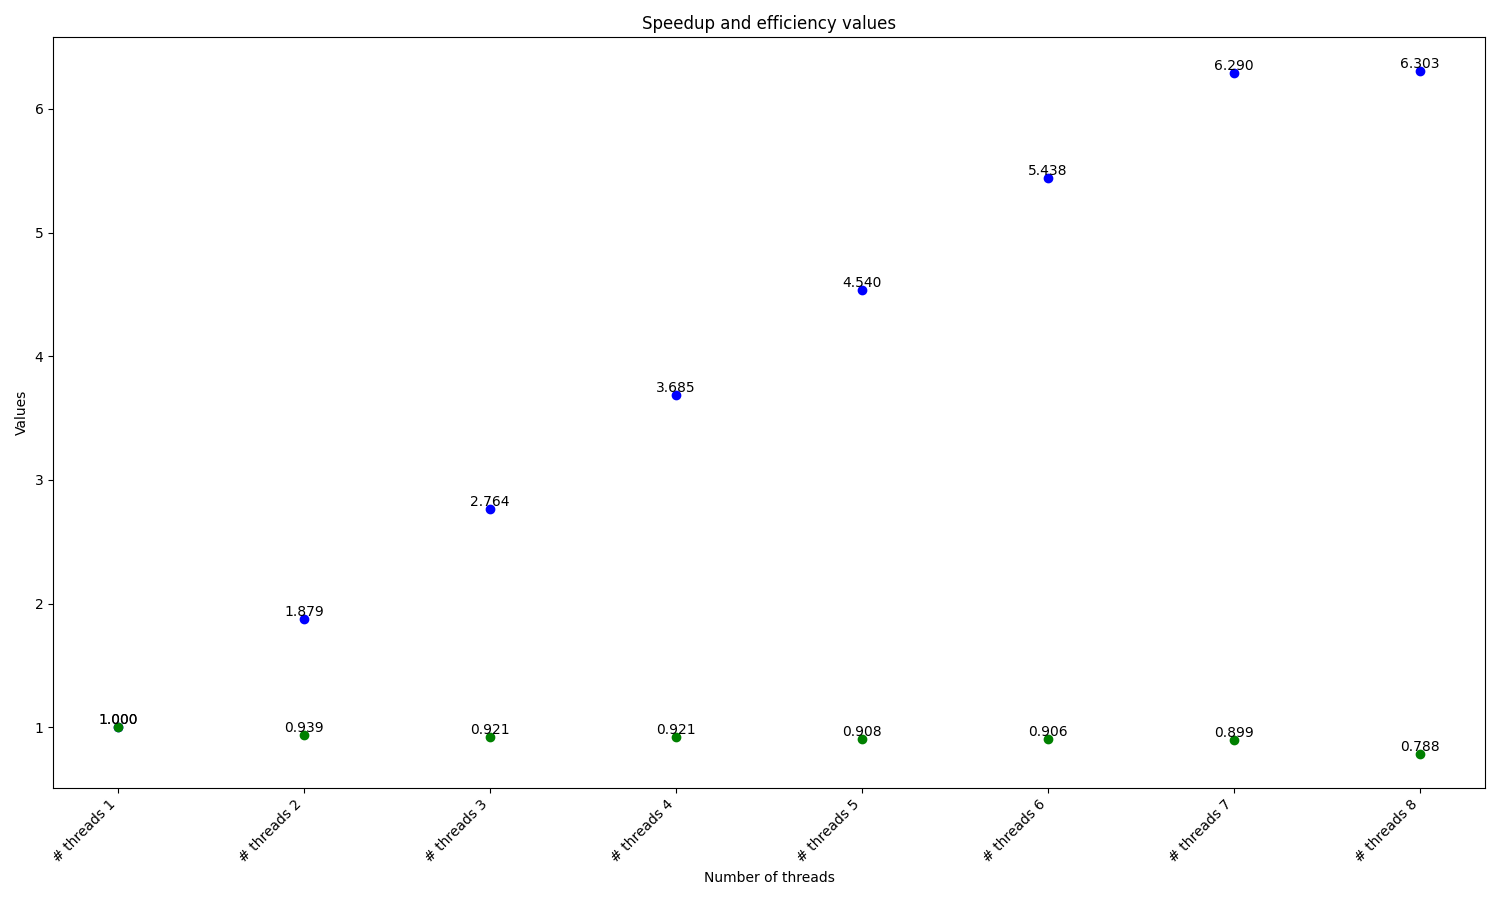
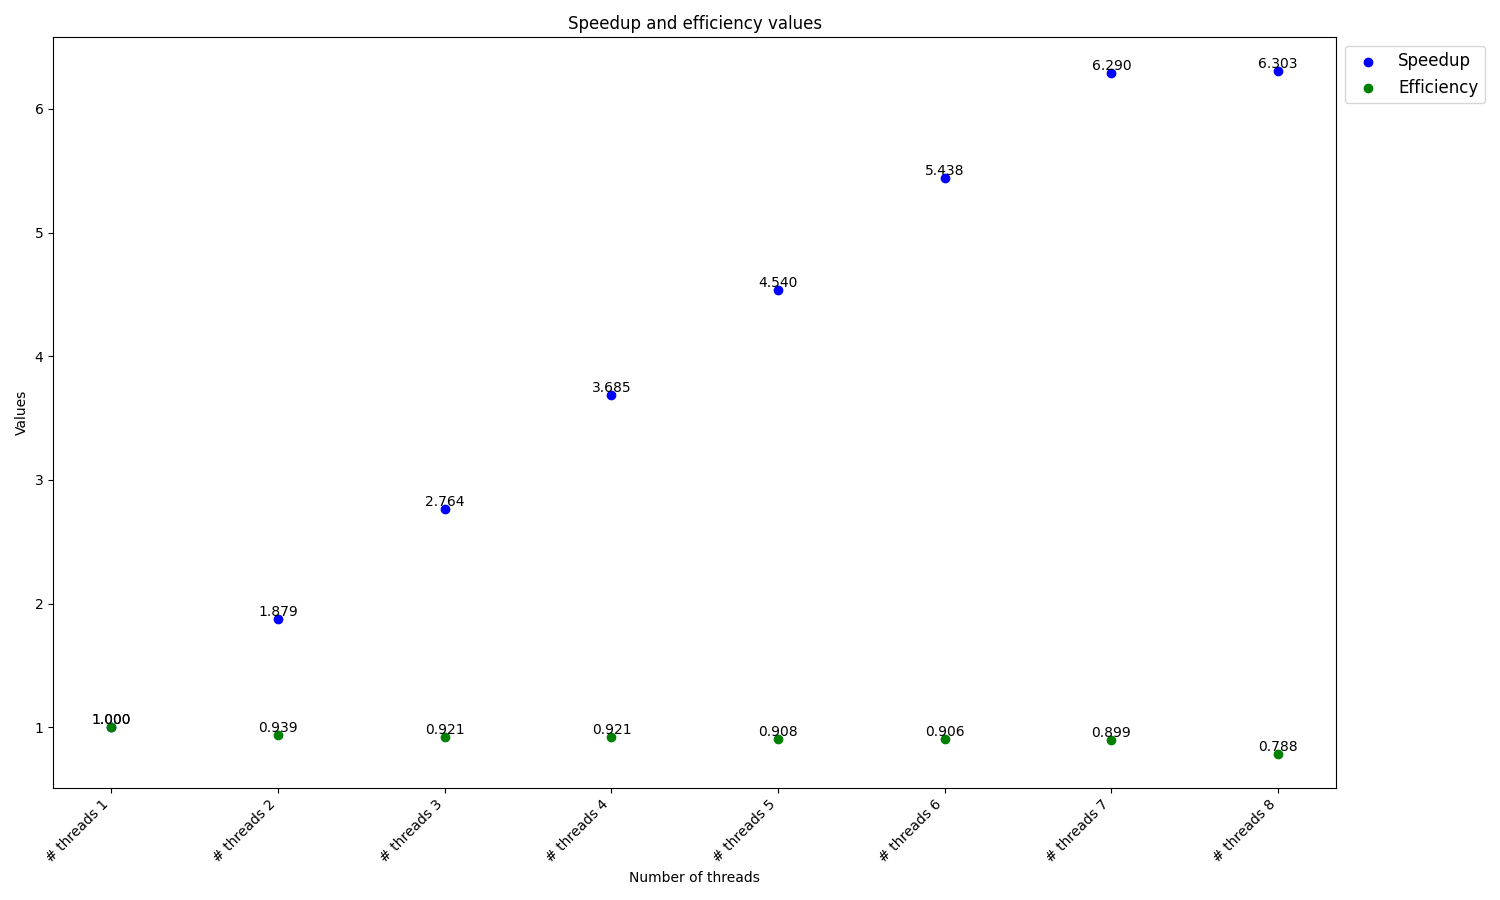
Legend was added for speedup and efficiency plot

diff --git a/time_values_plotter.py b/time_values_plotter.py
@@ -53,7 +53,7 @@ plt.legend(loc='upper left', bbox_to_anchor=(1, 1), fontsize='large')
 
 # Show the plot
 plt.tight_layout()
-plt.savefig('time_values_with_averags_optimized.png')
+#plt.savefig('time_values_with_averags_optimized.png')
 plt.clf()
 
 #######################################################################################################
@@ -68,14 +68,16 @@ for i in range(0, len(average_time_values)):
     plt.text(i+1, average_time_values[csv_files[0]]/average_time_values[csv_files[i]], f'{average_time_values[csv_files[0]]/average_time_values[csv_files[i]]:.3f}', ha='center', va='bottom', fontsize=10, color='black')
     plt.text(i+1, (average_time_values[csv_files[0]]/((i+1)*average_time_values[csv_files[i]])), f'{(average_time_values[csv_files[0]]/((i+1)*average_time_values[csv_files[i]])):.3f}', ha='center', va='bottom', fontsize=10, color='black')   
 
+plt.scatter([], [], color='blue', label='Speedup')
+plt.scatter([], [], color='green', label='Efficiency')
+
 # Add labels and legend
 plt.xlabel('Number of threads')
 plt.ylabel('Values')
 plt.title('Speedup and efficiency values')
 plt.xticks(ticks=range(1, len(csv_files) + 1), labels=custom_labels, rotation=45, ha='right')
-#plt.legend(loc='upper left', bbox_to_anchor=(1, 1), fontsize='large')
+plt.legend(loc='upper left', bbox_to_anchor=(1, 1), fontsize='large')
 
 # Show the plot
 plt.tight_layout()
-#plt.savefig('time_values_with_different_thread_counts.png')
 plt.savefig('speedup_efficiency.png')
